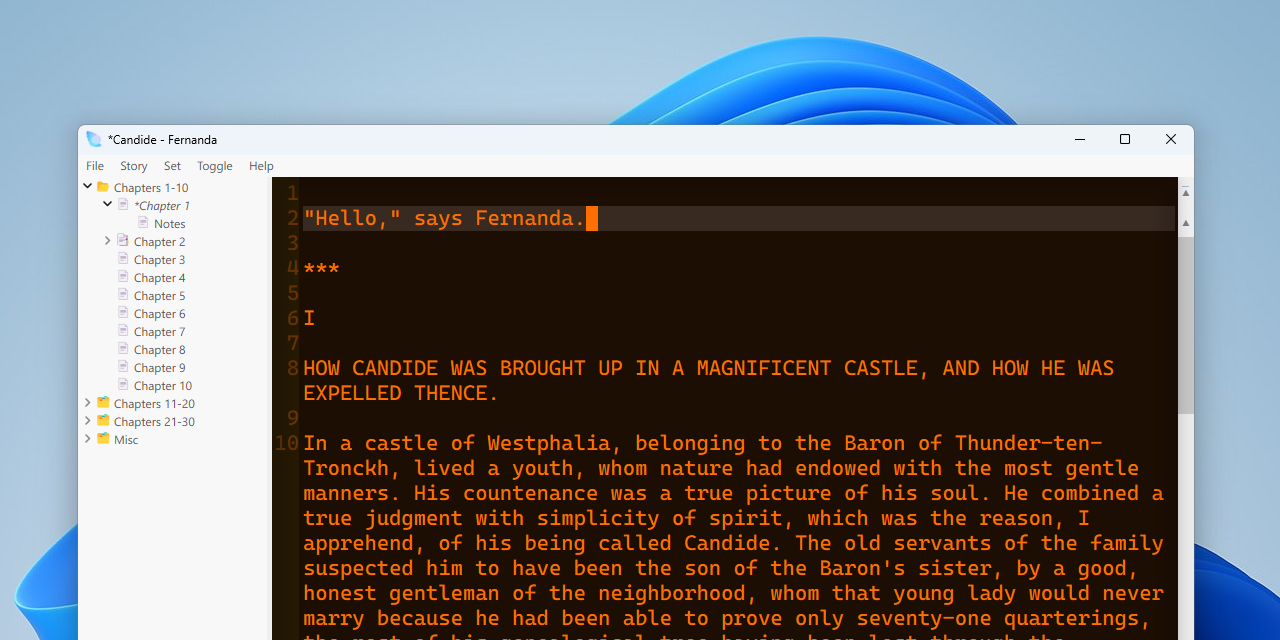
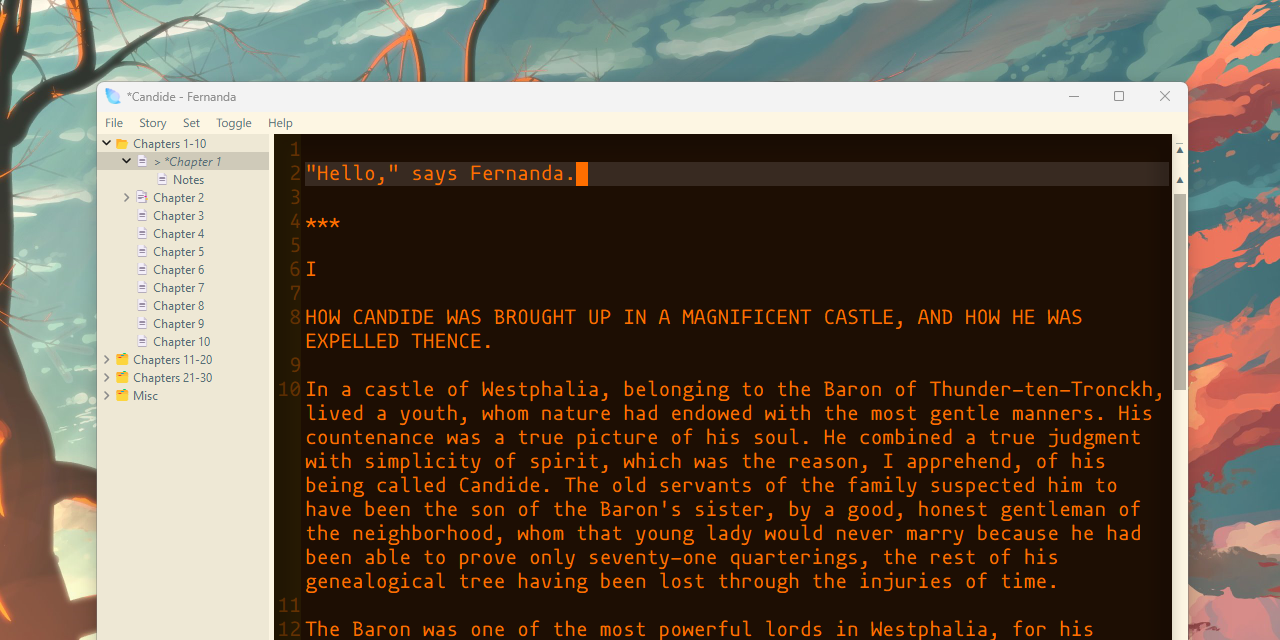
Update Readme screens :snowflake:

diff --git a/README.md b/README.md
@@ -2,8 +2,8 @@
 
 <p align="center">
 	<kbd>
-		<img src="./fernanda/docs/screens/main_screen_1.png" alt="PNG of 'Fernanda v0.9.1.20 running on Windows 11.'" width="500px"/>
-		<br>Fernanda v0.9.1.20 running on Windows 11.
+		<img src="./fernanda/docs/screens/main_screen.png" alt="PNG of 'Fernanda v0.14.0-beta32'" width="500px"/>
+		<br>Fernanda v0.14.0-beta32
 	</kbd>
 </p>
 <p align="center">
@@ -33,6 +33,7 @@ Fernanda is a plain text editor for drafting long-form fiction. (At least, that'
 	- [Tools](#features-tools)
 - [Installation](#install)
 - [Thanks](#thanks)
+- [Screens](#screens)
 - [Bye](#bye)
 
 ## :heartpulse: **About** <a name="about"></a>
@@ -187,15 +188,37 @@ A major thanks, too, to [@rikyoz](https://github.com/rikyoz/) for their tireless
 
 [&#9166;](#top)
 
-## :heartpulse: **Bye** <a name="bye"></a>
-
-Older screens:
+## :hibiscus: **Screens** <a name="screens"></a>
 
 <p align="center">
 	<kbd>
-		<img src="./fernanda/docs/screens/old_main_screen.png" alt="PNG of 'Fernanda running on Windows 11.'" width="500px"/>
-		<br>Fernanda running on Windows 11. (Wallpaper: "Red sky background" by <a href="https://www.deviantart.com/masterteacher/art/Red-sky-background-356199141">MasterTeacher</a>)
+		<img src="./fernanda/docs/screens/main_screen.png" alt="PNG of 'Fernanda v0.14.0-beta32 running on Windows 11.'" width="500px"/>
+		<br>Fernanda v0.14.0-beta32 running on Windows 11.<br><br>Wallpaper: "Red sky background" by <a href="https://www.deviantart.com/masterteacher/art/Red-sky-background-356199141">MasterTeacher</a>;<br>Themes: window Solarized Light / editor Snooze;<br>Font: Mononoki by <a href="https://github.com/madmalik/mononoki">@madmalik</a>.
 	</kbd>
 </p>
+<p align="center">
+	<kbd>
+		<img src="./fernanda/docs/screens/light_pocket.png" alt="PNG of 'Fernanda v0.14.0-beta32 - Themes: window Light / editor Pocket'" width="300px"/>
+		<br>Fernanda v0.14.0-beta32<br>Themes: window Light / editor Pocket
+	</kbd>
+	<kbd>
+		<img src="./fernanda/docs/screens/dark_pocket_alt.png" alt="PNG of 'Fernanda v0.14.0-beta32 - Themes: window Dark / editor Pocket-Alt'" width="300px"/>
+		<br>Fernanda v0.14.0-beta32<br>Themes: window Dark / editor Pocket-Alt
+	</kbd>
+</p>
+<p align="center">
+	<kbd>
+		<img src="./fernanda/docs/screens/solarized_light_snooze_alt.png" alt="PNG of 'Fernanda v0.14.0-beta32 - Themes: window Solarized Light / editor Snooze-Alt'" width="300px"/>
+		<br>Fernanda v0.14.0-beta32<br>Themes: window Solarized Light / editor Snooze-Alt
+	</kbd>
+	<kbd>
+		<img src="./fernanda/docs/screens/solarized_dark_snooze.png" alt="PNG of 'Fernanda v0.14.0-beta32 - Themes: window Solarized Dark / editor Snooze'" width="300px"/>
+		<br>Fernanda v0.14.0-beta32<br>Themes: window Solarized Dark / editor Snooze
+	</kbd>
+</p>
+
+[&#9166;](#top)
+
+## :heartpulse: **Bye** <a name="bye"></a>
 
 [&#9166;](#top)
